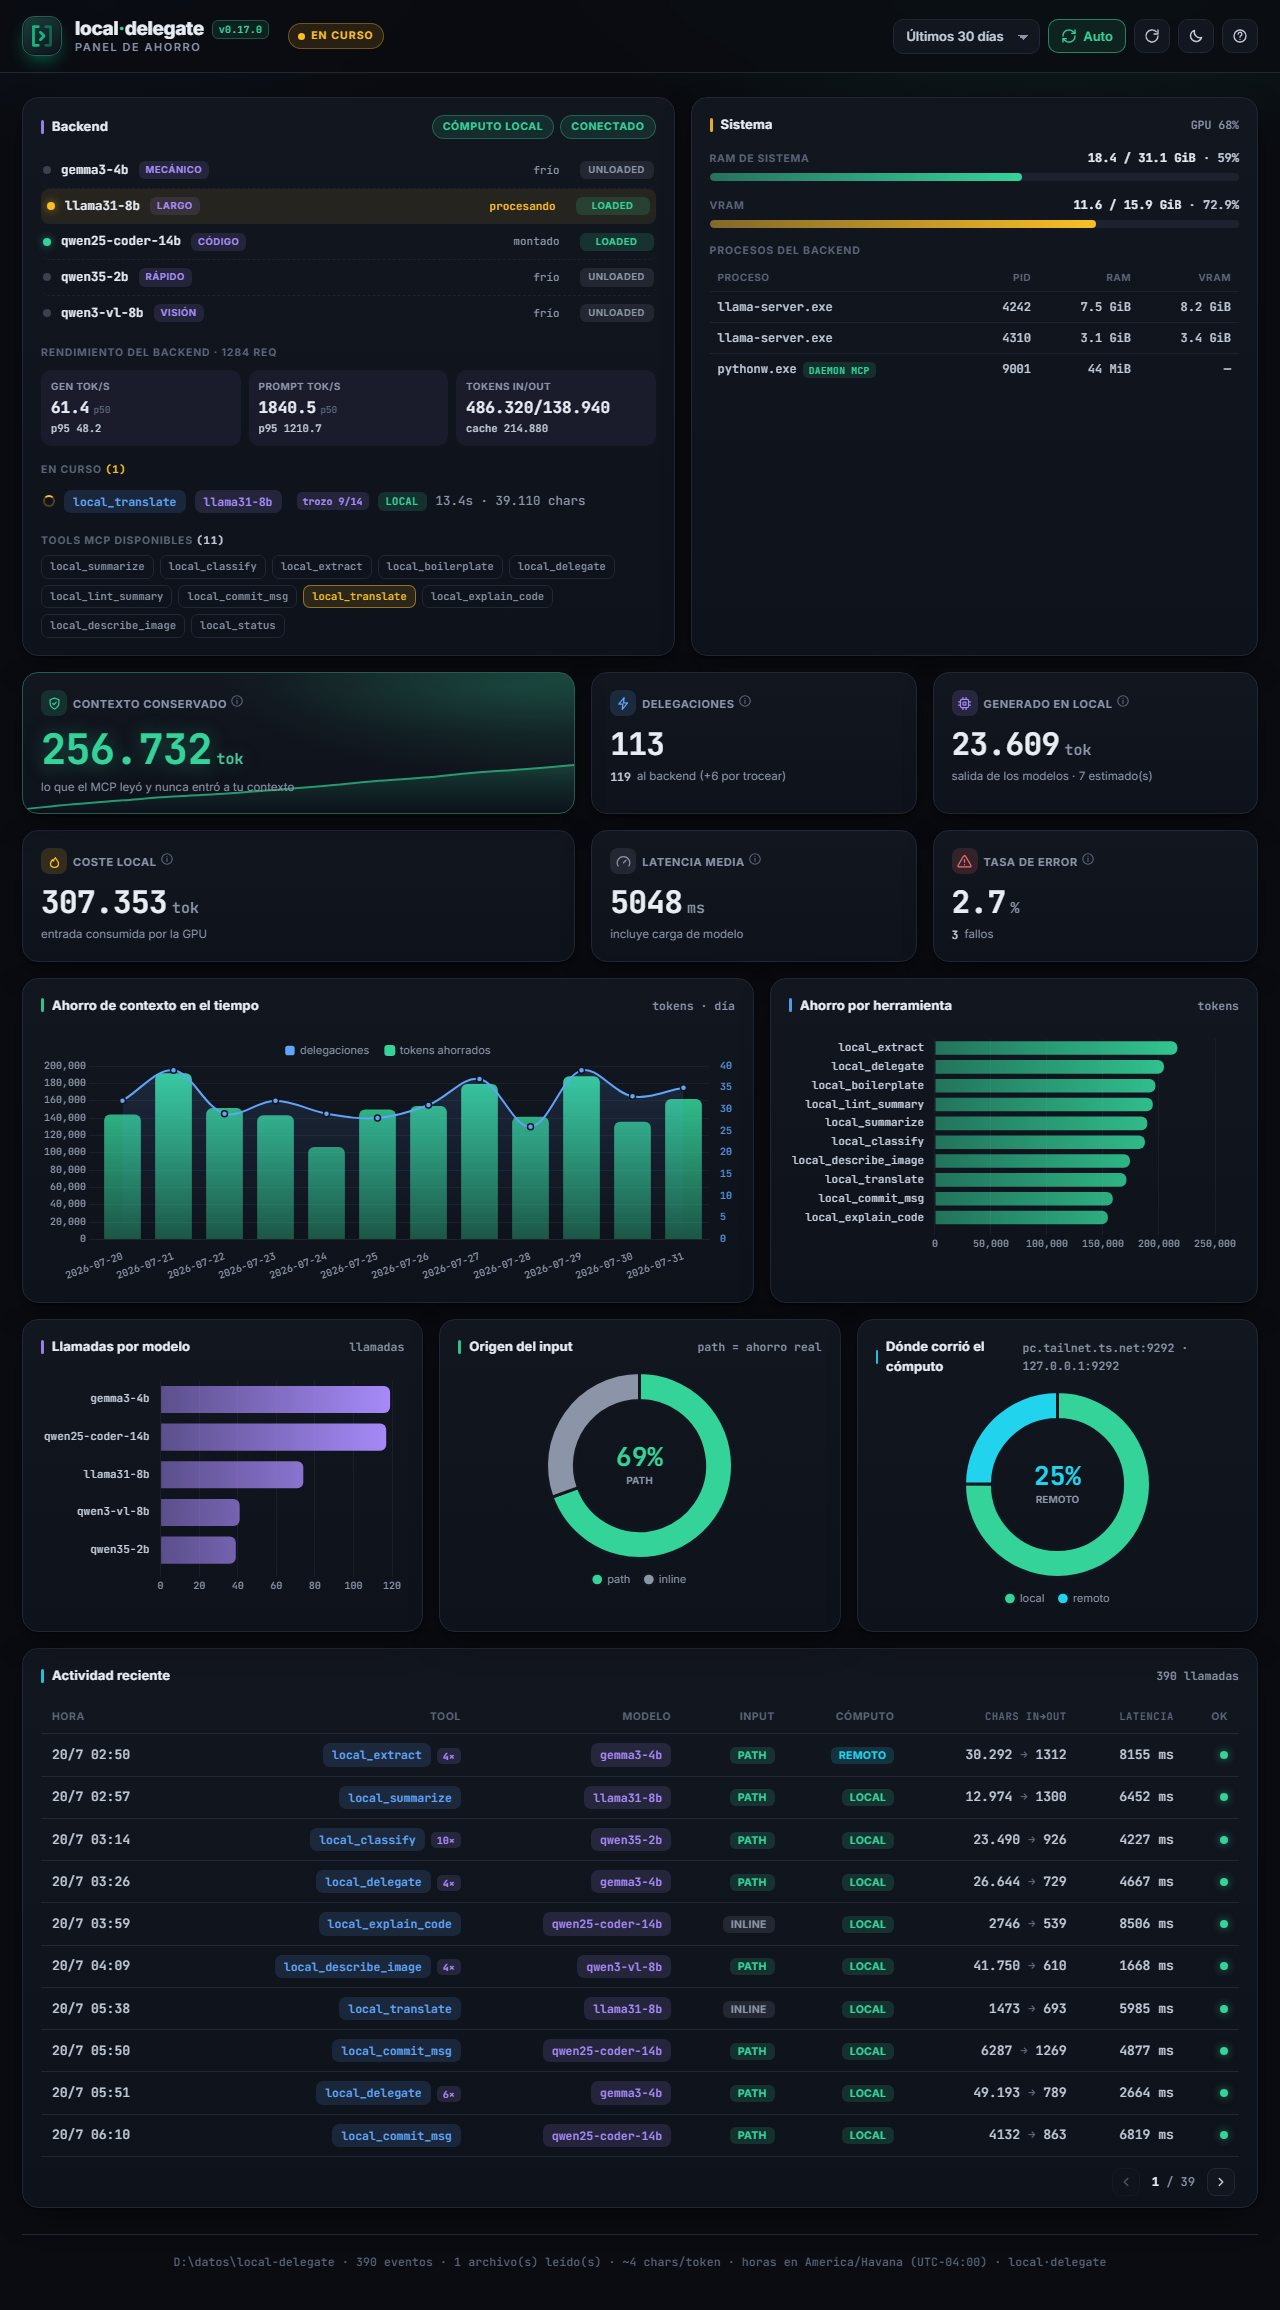
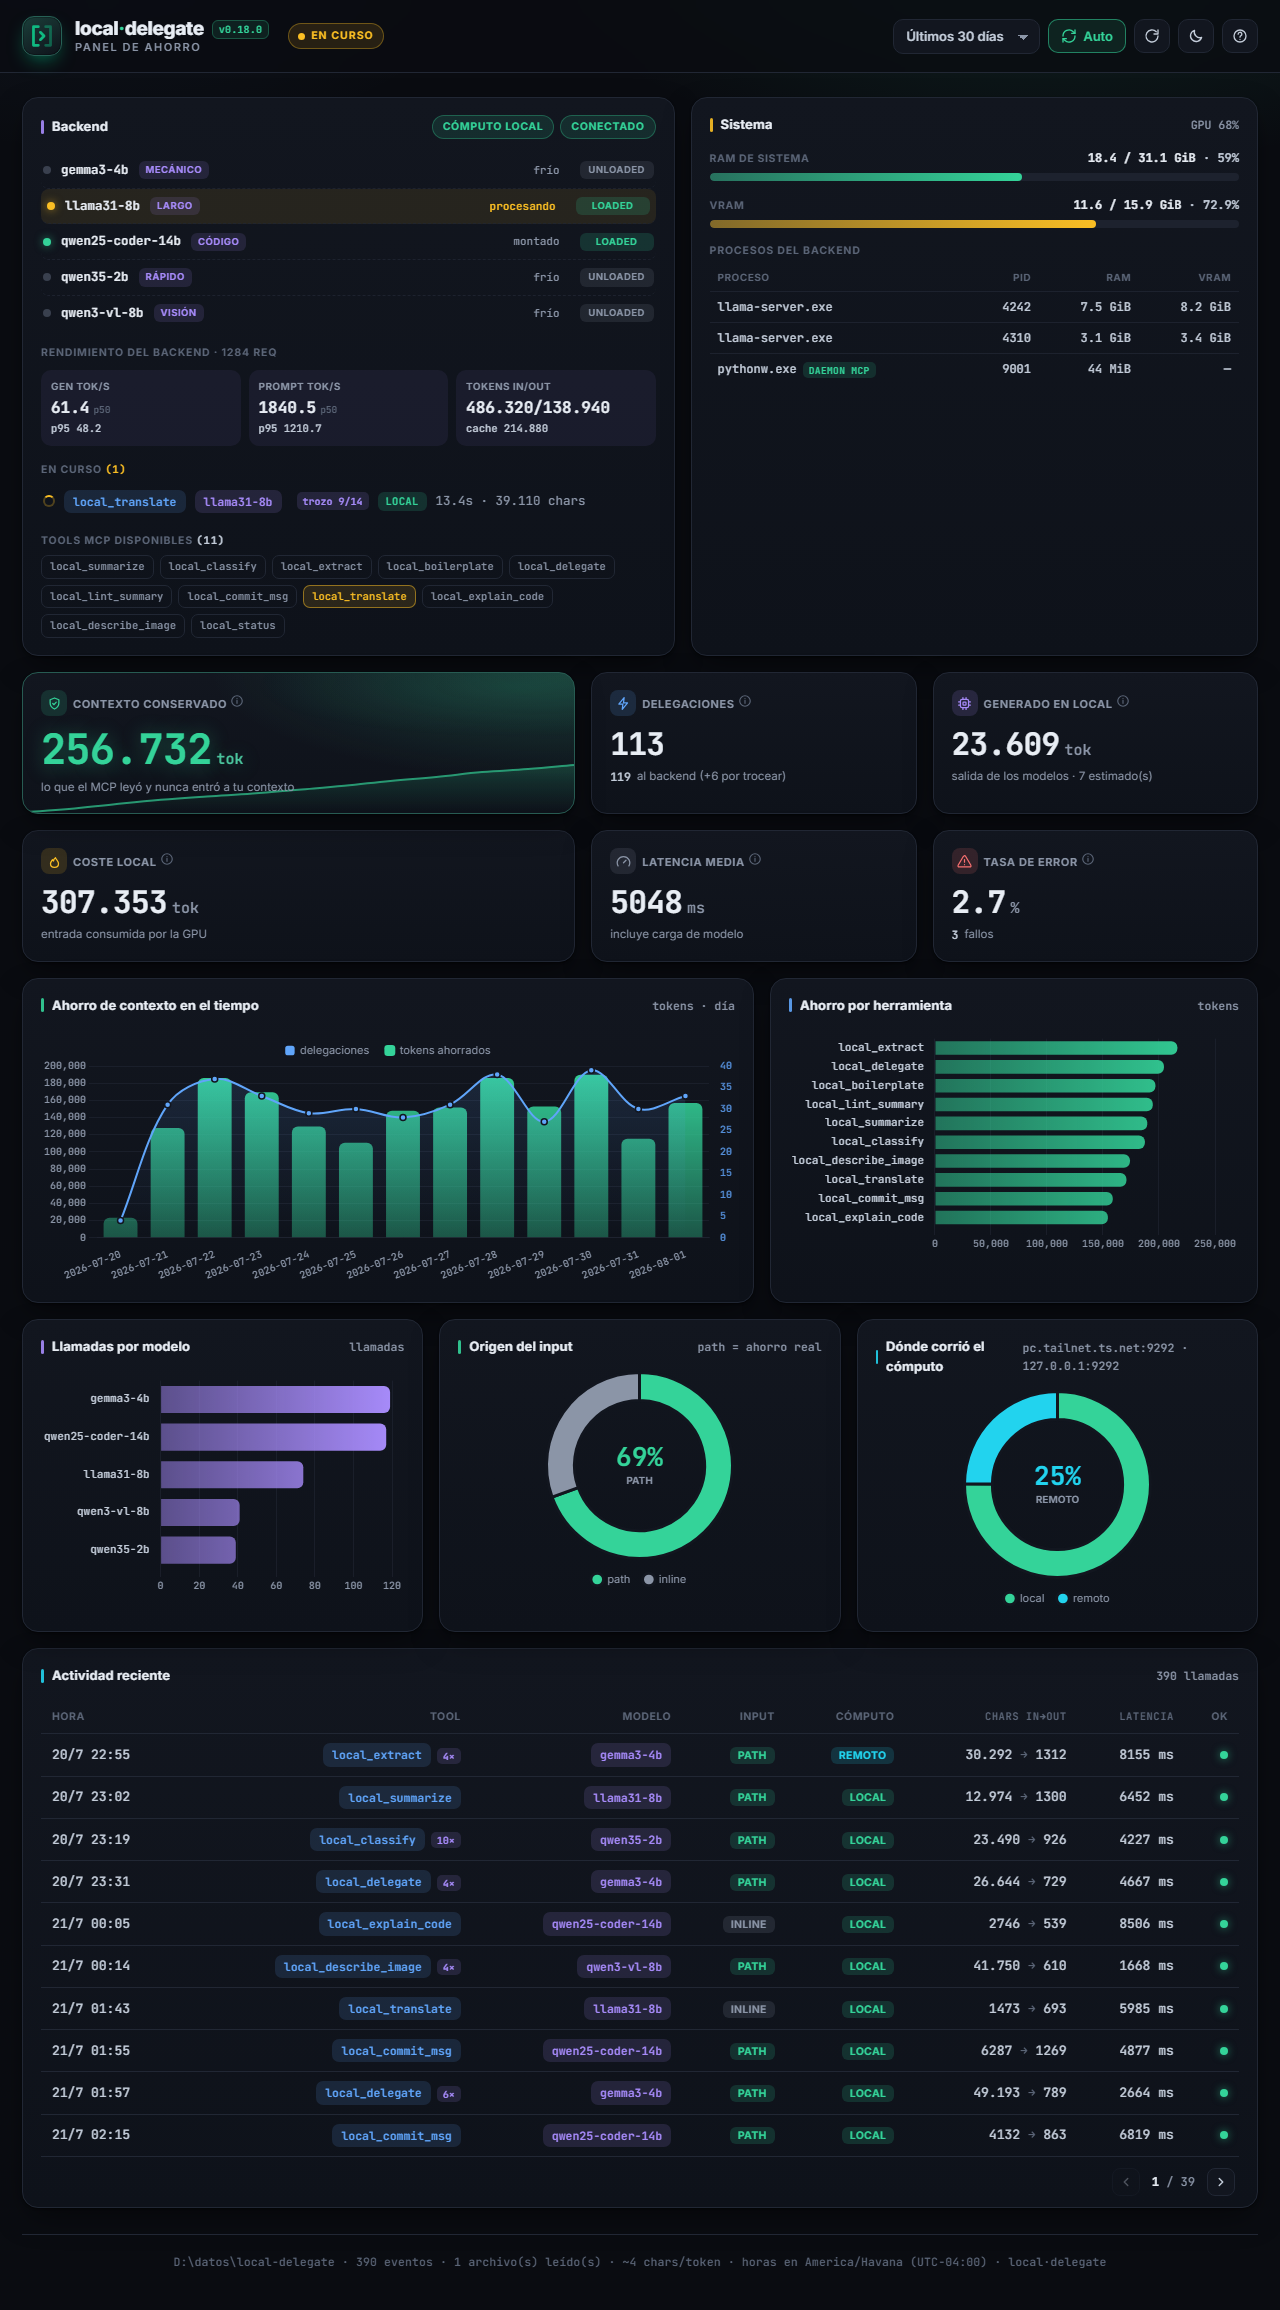
chore(release): 0.18.0
Cierra `Unreleased`, que acumulaba seis sesiones de trabajo, y bumpea los
cuatro sitios que declaran la versión más el lock.

Lo grueso de la release: el daemon aprende a preguntar en vez de fallar seco
(`elicitation`), el observador de clientes MCP, el gate de CI que desactiva el
job fantasma de Windows, el check nº15 de `doctor` sobre los clientes
observados, y los arreglos de la landing.

Captura del README regenerada contra el repo en el 9494 —no contra el daemon
instalado, que sirve la versión vieja—, así que el manifiesto declara 0.18.0 y
el vigilante del PR #86 pasa.

Changed region(s): [[0.0312, 0.4675, 0.5312, 0.561]]

diff --git a/CHANGELOG.md b/CHANGELOG.md
@@ -6,6 +6,8 @@ y el proyecto usa [Versionado Semántico](https://semver.org/lang/es/).
 
 ## [Unreleased]
 
+## [0.18.0] - 2026-07-31
+
 ### Added
 - **`doctor` ya enseña con qué clientes MCP se ha hablado de verdad**, que era el dato que el daemon
   aprendió a registrar y que hasta ahora solo se veía por `/api/status`. Es la comprobación **nº15**
@@ -1054,7 +1056,8 @@ y el proyecto usa [Versionado Semántico](https://semver.org/lang/es/).
 - Empaquetado para PyPI (`local-delegate-mcp`) ejecutable con `uvx`; `server.json` para el
   registro oficial de MCP.
 
-[Unreleased]: https://github.com/ZahiriNatZuke/local-delegate/compare/v0.17.0...HEAD
+[Unreleased]: https://github.com/ZahiriNatZuke/local-delegate/compare/v0.18.0...HEAD
+[0.18.0]: https://github.com/ZahiriNatZuke/local-delegate/compare/v0.17.0...v0.18.0
 [0.17.0]: https://github.com/ZahiriNatZuke/local-delegate/compare/v0.16.0...v0.17.0
 [0.16.0]: https://github.com/ZahiriNatZuke/local-delegate/compare/v0.15.0...v0.16.0
 [0.15.0]: https://github.com/ZahiriNatZuke/local-delegate/compare/v0.14.0...v0.15.0
